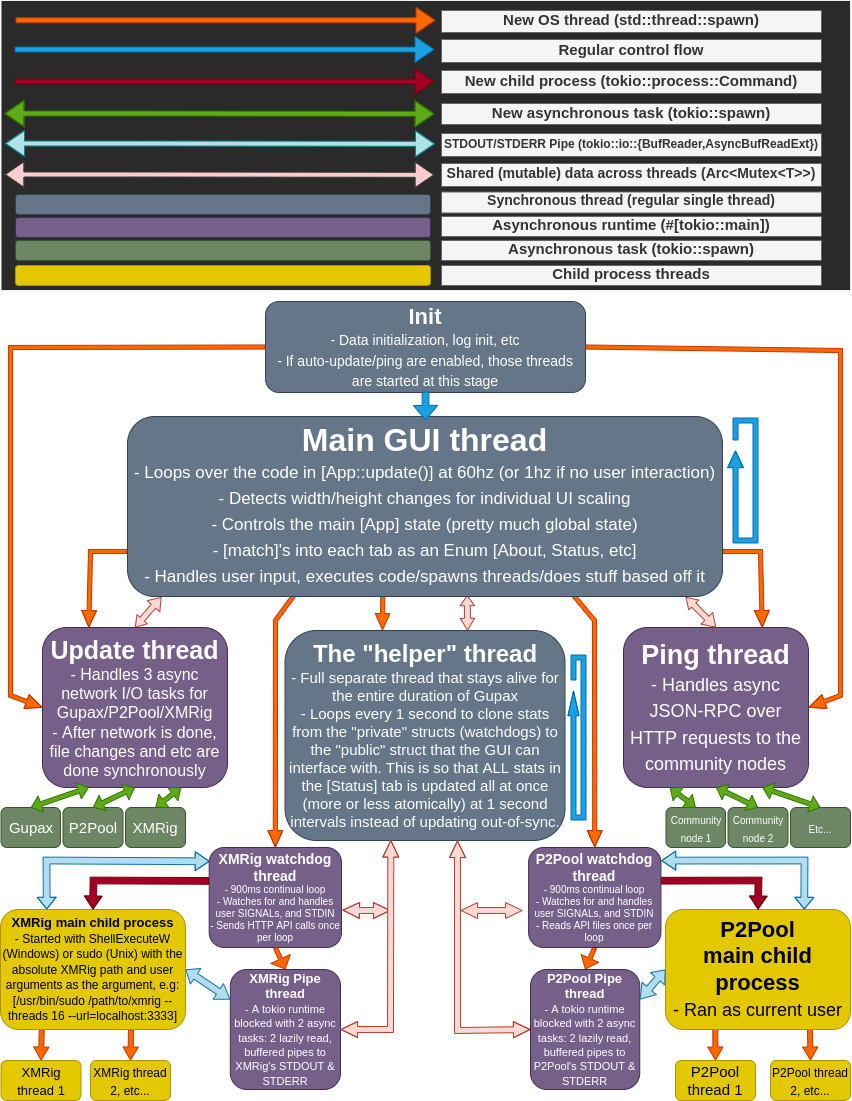
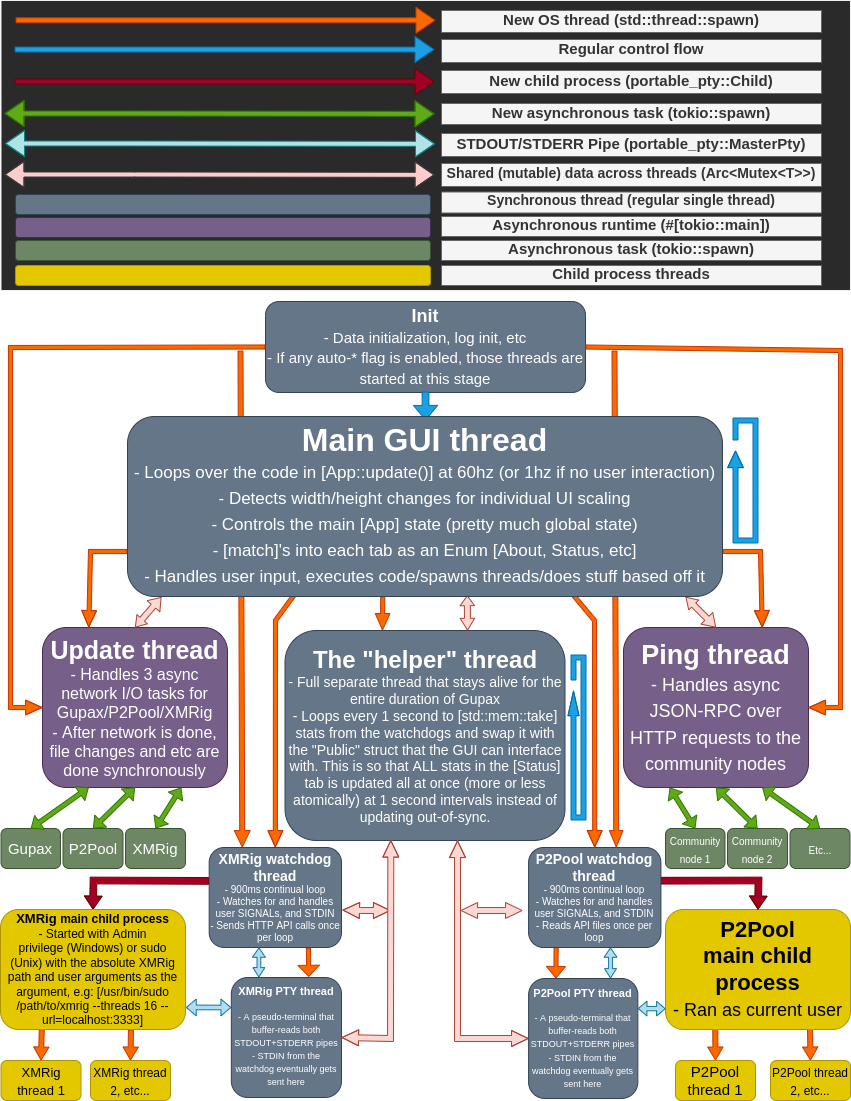
gupax: add [Auto-P2Pool/XMRig] for running at Gupax startup

diff --git a/src/helper.rs b/src/helper.rs
@@ -405,8 +405,7 @@ impl Helper {
 	}
 
 	// The P2Pool watchdog. Spawns 1 OS thread for reading a PTY (STDOUT+STDERR), and combines the [Child] with a PTY so STDIN actually works.
-	#[tokio::main]
-	async fn spawn_p2pool_watchdog(process: Arc<Mutex<Process>>, gui_api: Arc<Mutex<PubP2poolApi>>, pub_api: Arc<Mutex<PubP2poolApi>>, priv_api: Arc<Mutex<PrivP2poolApi>>, args: Vec<String>, mut path: std::path::PathBuf) {
+	fn spawn_p2pool_watchdog(process: Arc<Mutex<Process>>, gui_api: Arc<Mutex<PubP2poolApi>>, pub_api: Arc<Mutex<PubP2poolApi>>, priv_api: Arc<Mutex<PrivP2poolApi>>, args: Vec<String>, mut path: std::path::PathBuf) {
 		// 1a. Create PTY
 		let pty = portable_pty::native_pty_system();
 		let pair = pty.openpty(portable_pty::PtySize {
@@ -714,8 +713,7 @@ impl Helper {
 	}
 
 	// The P2Pool watchdog. Spawns 1 OS thread for reading a PTY (STDOUT+STDERR), and combines the [Child] with a PTY so STDIN actually works.
-	#[tokio::main]
-	async fn spawn_xmrig_watchdog(process: Arc<Mutex<Process>>, gui_api: Arc<Mutex<PubXmrigApi>>, pub_api: Arc<Mutex<PubXmrigApi>>, priv_api: Arc<Mutex<PrivXmrigApi>>, args: Vec<String>, mut path: std::path::PathBuf, sudo: Arc<Mutex<SudoState>>) {
+	fn spawn_xmrig_watchdog(process: Arc<Mutex<Process>>, gui_api: Arc<Mutex<PubXmrigApi>>, pub_api: Arc<Mutex<PubXmrigApi>>, priv_api: Arc<Mutex<PrivXmrigApi>>, args: Vec<String>, mut path: std::path::PathBuf, sudo: Arc<Mutex<SudoState>>) {
 		// 1a. Create PTY
 		let pty = portable_pty::native_pty_system();
 		let mut pair = pty.openpty(portable_pty::PtySize {

diff --git a/src/main.rs b/src/main.rs
@@ -601,12 +601,39 @@ fn init_auto(app: &mut App) {
 	}
 
 	// [Auto-Ping]
-	let auto_node = app.og.lock().unwrap().p2pool.auto_node;
-	let simple = app.og.lock().unwrap().p2pool.simple;
-	if auto_node && simple {
+	if app.state.p2pool.auto_node && app.state.p2pool.simple {
 		Ping::spawn_thread(&app.ping)
 	} else {
 		info!("Skipping auto-ping...");
+	}
+
+	// [Auto-P2Pool]
+	if app.state.gupax.auto_p2pool {
+		if !Regexes::addr_ok(&app.regex, &app.state.p2pool.address) {
+			warn!("Gupax | P2Pool address is not valid! Skipping auto-p2pool...");
+		} else if !Gupax::path_is_exe(&app.state.gupax.p2pool_path) {
+			warn!("Gupax | P2Pool path is not an executable! Skipping auto-p2pool...");
+		} else {
+			Helper::start_p2pool(&app.helper, &app.state.p2pool, &app.state.gupax.absolute_p2pool_path);
+		}
+	} else {
+		info!("Skipping auto-xmrig...");
+	}
+
+	// [Auto-XMRig]
+	if app.state.gupax.auto_xmrig {
+		if !Gupax::path_is_exe(&app.state.gupax.xmrig_path) {
+			warn!("Gupax | XMRig path is not an executable! Skipping auto-xmrig...");
+		} else {
+			if cfg!(windows) {
+				Helper::start_xmrig(&app.helper, &app.state.xmrig, &app.state.gupax.absolute_xmrig_path, Arc::clone(&app.sudo));
+			} else {
+				app.sudo.lock().unwrap().signal = ProcessSignal::Start;
+				app.error_state.ask_sudo(&app.sudo);
+			}
+		}
+	} else {
+		info!("Skipping auto-xmrig...");
 	}
 }
 

diff --git a/src/gupax.rs b/src/gupax.rs
@@ -114,11 +114,16 @@ impl Gupax {
 
 		ui.horizontal(|ui| {
 			ui.group(|ui| {
-					let width = (width - SPACE*7.5)/4.0;
+					let width = (width - SPACE*12.0)/6.0;
 					let height = height/10.0;
-					ui.add_sized([width, height], Checkbox::new(&mut self.auto_update, "Auto-update")).on_hover_text(GUPAX_AUTO_UPDATE);
-					ui.separator();
+					ui.style_mut().override_text_style = Some(egui::TextStyle::Small);
 					ui.add_sized([width, height], Checkbox::new(&mut self.update_via_tor, "Update via Tor")).on_hover_text(GUPAX_UPDATE_VIA_TOR);
+					ui.separator();
+					ui.add_sized([width, height], Checkbox::new(&mut self.auto_update, "Auto-Update")).on_hover_text(GUPAX_AUTO_UPDATE);
+					ui.separator();
+					ui.add_sized([width, height], Checkbox::new(&mut self.auto_p2pool, "Auto-P2Pool")).on_hover_text(GUPAX_AUTO_P2POOL);
+					ui.separator();
+					ui.add_sized([width, height], Checkbox::new(&mut self.auto_xmrig, "Auto-XMRig")).on_hover_text(GUPAX_AUTO_XMRIG);
 					ui.separator();
 					ui.add_sized([width, height], Checkbox::new(&mut self.ask_before_quit, "Ask before quit")).on_hover_text(GUPAX_ASK_BEFORE_QUIT);
 					ui.separator();

diff --git a/src/constants.rs b/src/constants.rs
@@ -121,6 +121,8 @@ pub const GUPAX_UPDATE_VIA_TOR: &str = "Update through the Tor network. Tor is e
 pub const GUPAX_UPDATE_VIA_TOR: &'static str = "WARNING: This option is unstable on macOS. Update through the Tor network. Tor is embedded within Gupax; a Tor system proxy is not required";
 pub const GUPAX_ASK_BEFORE_QUIT: &str = "Ask before quitting Gupax";
 pub const GUPAX_SAVE_BEFORE_QUIT: &str = "Automatically save any changed settings before quitting";
+pub const GUPAX_AUTO_P2POOL: &str = "Automatically start P2Pool on Gupax startup. If you are using [P2Pool Simple], this will NOT wait for your [Auto-Ping] to finish, it will start P2Pool on the pool you already have selected. This option will fail if your P2Pool settings aren't valid!";
+pub const GUPAX_AUTO_XMRIG: &str = "Automatically start XMRig on Gupax startup. This option will fail if your XMRig settings aren't valid!";
 pub const GUPAX_WIDTH: &str = "Set the width of the Gupax window";
 pub const GUPAX_HEIGHT: &str = "Set the height of the Gupax window";
 pub const GUPAX_LOCK_WIDTH: &str = "Automatically match the HEIGHT against the WIDTH in a 4:3 ratio";

diff --git a/src/disk.rs b/src/disk.rs
@@ -142,6 +142,8 @@ impl State {
 				simple: true,
 				auto_update: true,
 				auto_node: true,
+				auto_p2pool: true,
+				auto_xmrig: true,
 				ask_before_quit: true,
 				save_before_quit: true,
 				#[cfg(not(target_os = "macos"))]
@@ -579,6 +581,8 @@ pub struct Gupax {
 	pub simple: bool,
 	pub auto_update: bool,
 	pub auto_node: bool,
+	pub auto_p2pool: bool,
+	pub auto_xmrig: bool,
 	pub ask_before_quit: bool,
 	pub save_before_quit: bool,
 	pub update_via_tor: bool,

diff --git a/src/README.md b/src/README.md
@@ -53,7 +53,9 @@ This is how Gupax works internally when starting up:
 	
 2. **AUTO**
 	- If `auto_update` == `true`, spawn auto-updating thread
-	- If `auto_select` == `true`, spawn community node ping thread
+	- If `auto_ping` == `true`, spawn community node ping thread
+	- If `auto_p2pool` == `true`, spawn P2Pool
+	- If `auto_xmrig` == `true`, spawn XMRig
 
 3. **MAIN**
 	- All data should be initialized at this point, either via `state.toml` or default options
